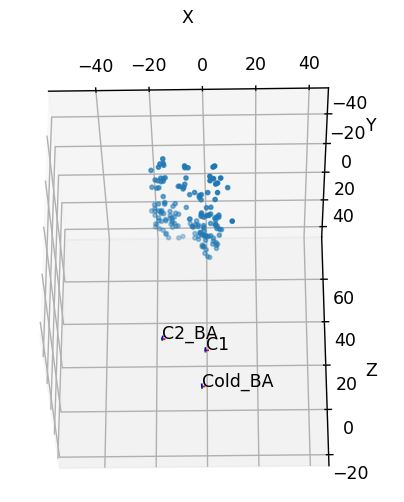
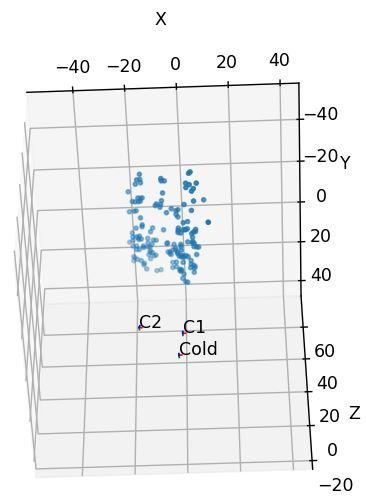
results

Changed region(s): [[0.0301, 0.0905, 0.9617, 0.996], [0.4208, 0.0, 0.4809, 0.0604], [0.9617, 0.8149, 0.9918, 0.8451]]

diff --git a/src/main.py b/src/main.py
@@ -21,7 +21,7 @@ if __name__ == '__main__':
 
 
     path_image_new_1 = 'imgs1/img_new1_undistorted.jpg'
-    path_image_new_2 = 'imgs1/img_new2_undistorted.jpg'
+    path_image_new_2 = 'imgs1/img_new3_undistorted.jpg'
     path_image_old = 'imgs1/img_old2.jpg'
 
     img1 = cv2.imread(path_image_new_1)
@@ -32,7 +32,7 @@ if __name__ == '__main__':
     img2 = cv2.cvtColor(img2, cv2.COLOR_BGR2RGB)
     img_old = cv2.cvtColor(img_old, cv2.COLOR_BGR2RGB)
 
-    path = './output/img_new1_undistorted_img_new2_undistorted_matches.npz'
+    path = './output/img_new1_undistorted_img_new3_undistorted_matches.npz'
     npz = np.load(path)
     keypoints_SG_0_new = npz['keypoints0']
     keypoints_SG_1_new = npz['keypoints1']
@@ -310,8 +310,8 @@ if __name__ == '__main__':
         ax.set_zlabel('Z')
 
         drawRefSystem(ax, np.eye(4, 4), '-', 'C1')
-        drawRefSystem(ax, np.eye(4,4) @ np.linalg.inv(T_c2_c1), '-', 'C2_BA')
-        drawRefSystem(ax, np.eye(4,4) @ np.linalg.inv(T_c3_c1_op), '-', 'Cold_BA')
+        drawRefSystem(ax, np.eye(4,4) @ np.linalg.inv(T_c2_c1), '-', 'C2')
+        drawRefSystem(ax, np.eye(4,4) @ np.linalg.inv(T_c3_c1_op), '-', 'Cold')
         ax.scatter(points_3d[:,0], points_3d[:,1], points_3d[:,2], marker='.')
         axisEqual3D(ax)
         plt.show()
@@ -323,9 +323,15 @@ if __name__ == '__main__':
         x3_p = (K_old @ T_c3_c1_op[:3,:]) @ points_3d.T
         x3_p = x3_p / x3_p[2,:]
 
+        res = 0
+        res += sum(sum(abs(kp_new1 - (x1_p[:2,:] / x1_p[2,:]).T)))
+        res += sum(sum(abs(kp_new2 - (x2_p[:2,:] / x2_p[2,:]).T)))
+        res += sum(sum(abs(kp_old - (x3_p[:2,:] / x3_p[2,:]).T)))
+        print('Residuals after optimization: ', res/(3*kp_new1.shape[0]))
+
         if plot_flag or True:
             fig, ax = plt.subplots(1,3, figsize=(10,4))
-            fig.suptitle('Residuals before Bundle adjustment')
+            fig.suptitle('Residuals after Bundle adjustment')
             ax[0].imshow(img1)
             # ax[0].set_title('Residuals before Bundle adjustment')
             plotResidual2(kp_new1, x1_p.T, 'k-', ax[0])
